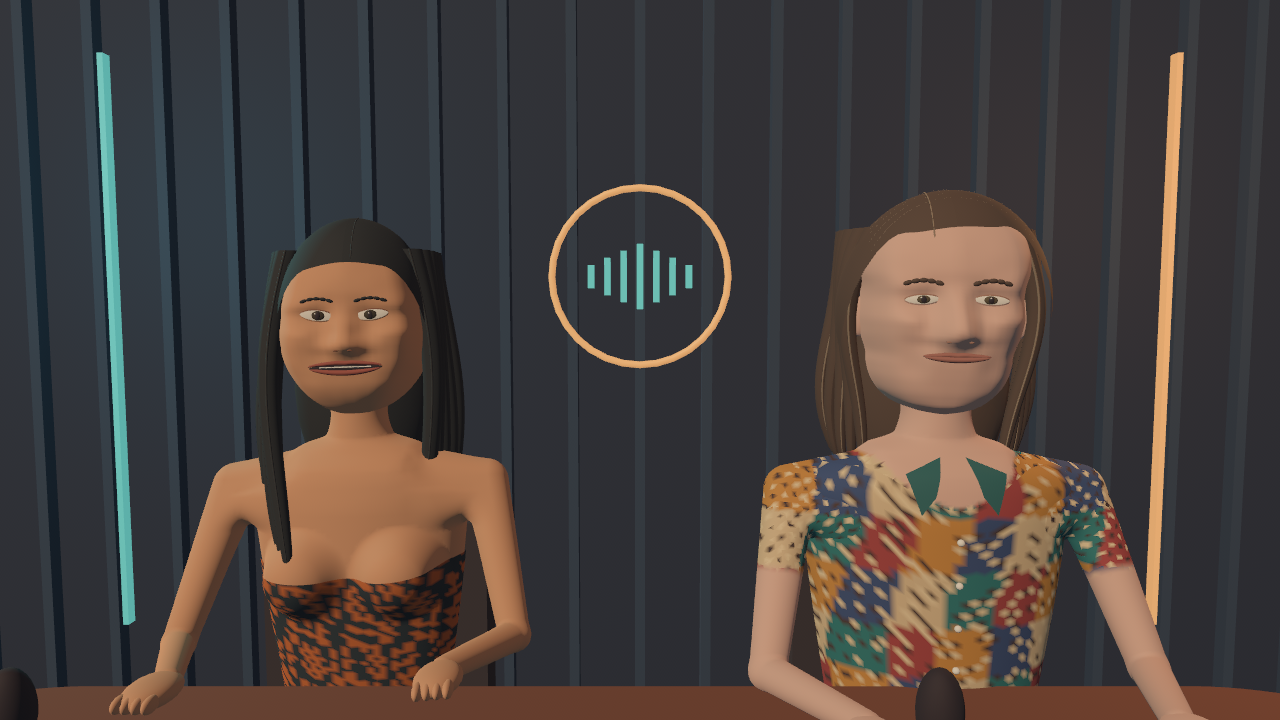
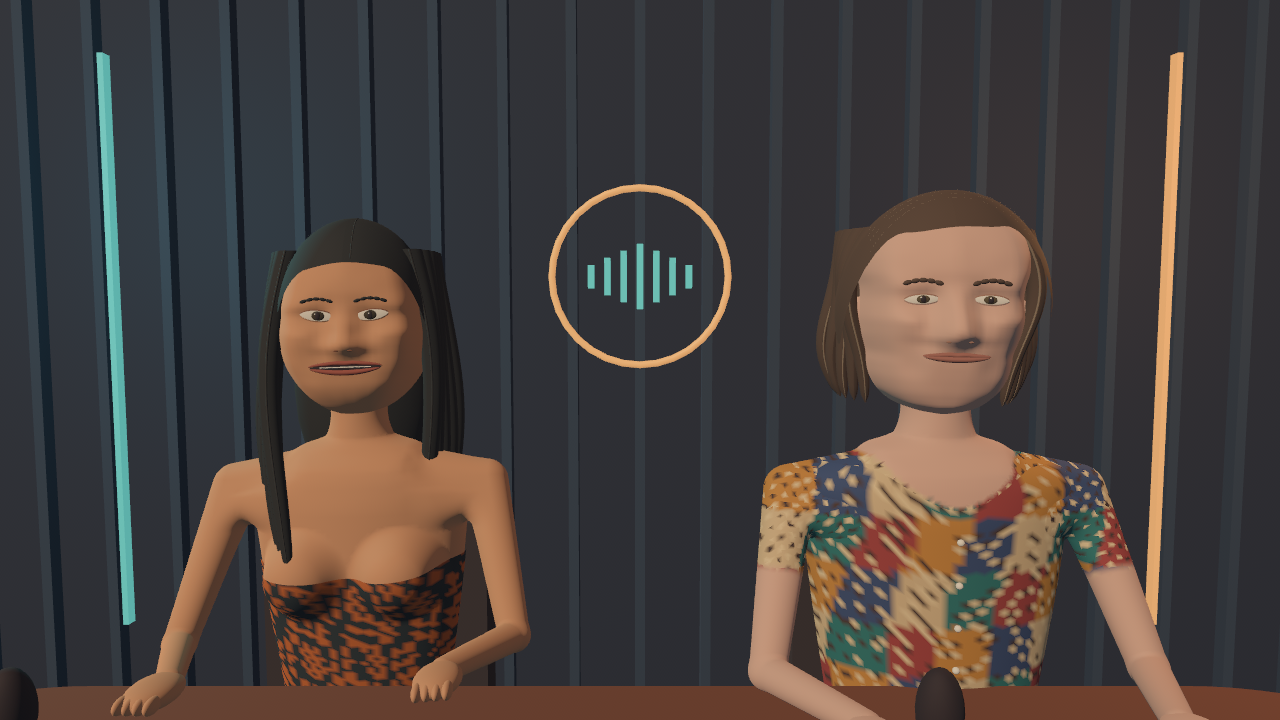
Remove neckline accents and drawn part; trim male hair to chin length

diff --git a/src/studio/portrait.rs b/src/studio/portrait.rs
@@ -18,6 +18,9 @@ pub struct Portrait {
     pub hair_length: f32,
     pub hair_part: f32,
     pub hair_width: f32,
+    pub draw_hair_part: bool,
+    pub hair_back_center: f32,
+    pub hair_back_half_height: f32,
 }
 
 impl Portrait {
@@ -34,6 +37,9 @@ impl Portrait {
                 hair_length: 0.83,
                 hair_part: 0.022,
                 hair_width: 0.205,
+                draw_hair_part: true,
+                hair_back_center: 0.08,
+                hair_back_half_height: 0.34,
             }
         } else {
             Self {
@@ -44,9 +50,12 @@ impl Portrait {
                 nose_width: 0.039,
                 mouth_width: 0.068,
                 mouth_y: 0.158,
-                hair_length: 0.60,
+                hair_length: 0.43,
                 hair_part: -0.052,
                 hair_width: 0.238,
+                draw_hair_part: false,
+                hair_back_center: 0.255,
+                hair_back_half_height: 0.230,
             }
         }
     }
@@ -442,40 +451,6 @@ pub fn garment(index: usize) -> Mesh {
     indexed_surface(positions, indices).with_inserted_attribute(Mesh::ATTRIBUTE_COLOR, colors)
 }
 
-pub fn collar(side: f32) -> Mesh {
-    let corners = [
-        Vec2::new(side * 0.028, 0.635),
-        Vec2::new(side * 0.112, 0.600),
-        Vec2::new(side * 0.084, 0.510),
-        Vec2::new(side * 0.052, 0.551),
-    ];
-    let segments = 8;
-    let mut positions = Vec::new();
-    let mut indices = Vec::new();
-    for row in 0..=segments {
-        let progress = row as f32 / segments as f32;
-        let inner = corners[0].lerp(corners[3], progress);
-        let outer = corners[1].lerp(corners[2], progress);
-        for column in 0..=segments {
-            let point = inner.lerp(outer, column as f32 / segments as f32);
-            positions.push([
-                point.x,
-                point.y,
-                super::body::front(1, point.x, point.y) + 0.010,
-            ]);
-            if row < segments && column < segments {
-                connect_ring(&mut indices, row, column, segments);
-            }
-        }
-    }
-    if side > 0.0 {
-        for triangle in indices.as_chunks_mut::<3>().0 {
-            triangle.swap(1, 2);
-        }
-    }
-    indexed_surface(positions, indices)
-}
-
 pub fn smile(index: usize) -> Mesh {
     let mut mesh = Sphere::new(1.0).mesh().uv(32, 16);
     if let Some(bevy::mesh::VertexAttributeValues::Float32x3(positions)) =
@@ -504,24 +479,26 @@ mod tests {
     use super::*;
 
     #[test]
-    fn shirt_collar_faces_follow_the_torso_without_skin_poking_through() {
+    fn microphone_hair_ends_near_the_chin_without_a_drawn_part() {
+        let male = Portrait::for_host(1);
+        assert!(!male.draw_hair_part);
+        assert!(Portrait::for_host(0).draw_hair_part);
+        assert!((male.hair_back_center - male.hair_back_half_height - 0.025).abs() < 0.00001);
         for side in [-1.0, 1.0] {
-            let mesh = collar(side);
-            let Some(VertexAttributeValues::Float32x3(positions)) =
-                mesh.attribute(Mesh::ATTRIBUTE_POSITION)
-            else {
-                panic!("missing collar positions")
-            };
-            let Some(Indices::U32(indices)) = mesh.indices() else {
-                panic!("missing collar triangles")
-            };
-            for triangle in indices.as_chunks::<3>().0 {
-                let center = triangle
-                    .iter()
-                    .map(|&index| Vec3::from_array(positions[index as usize]))
-                    .sum::<Vec3>()
-                    / 3.0;
-                assert!(center.z > super::super::body::front(1, center.x, center.y) + 0.005);
+            for lock in 0..5 {
+                for highlight in [false, true] {
+                    let mesh = hair_lock(1, side, lock, highlight);
+                    let Some(VertexAttributeValues::Float32x3(positions)) =
+                        mesh.attribute(Mesh::ATTRIBUTE_POSITION)
+                    else {
+                        panic!("missing hair positions")
+                    };
+                    let bottom = positions
+                        .iter()
+                        .map(|point| point[1])
+                        .fold(f32::INFINITY, f32::min);
+                    assert!((bottom - 0.025).abs() < 0.00001);
+                }
             }
         }
     }
@@ -573,8 +550,6 @@ mod tests {
                 hair_lock(index, -1.0, 0, false),
                 hair_lock(index, 1.0, 4, true),
                 garment(index),
-                collar(-1.0),
-                collar(1.0),
             ];
             for mesh in meshes {
                 let Some(VertexAttributeValues::Float32x3(positions)) =
@@ -633,15 +608,6 @@ mod tests {
                 }
                 assert!(checked > 5);
             }
-        }
-        for side in [-1.0, 1.0] {
-            let mesh = collar(side);
-            let Some(VertexAttributeValues::Float32x3(normals)) =
-                mesh.attribute(Mesh::ATTRIBUTE_NORMAL)
-            else {
-                panic!("missing normals");
-            };
-            assert!(normals.iter().all(|normal| normal[2] > 0.0));
         }
     }
 

diff --git a/src/studio.rs b/src/studio.rs
@@ -200,7 +200,6 @@ struct Palette {
     body: Handle<StandardMaterial>,
     hair: Handle<StandardMaterial>,
     streak: Handle<StandardMaterial>,
-    shirt: Handle<StandardMaterial>,
     lips: Handle<StandardMaterial>,
     crease: Handle<StandardMaterial>,
     white: Handle<StandardMaterial>,
@@ -319,16 +318,6 @@ fn host(
         Transform::default(),
     );
     if index == 1 {
-        for side in [-1.0, 1.0] {
-            let collar = meshes.add(portrait::collar(side));
-            object(
-                commands,
-                Some(root),
-                &collar,
-                &palette.shirt,
-                Transform::default(),
-            );
-        }
         for button in 0..4 {
             let height = 0.15 + button as f32 * 0.1;
             ellipsoid(
@@ -500,7 +489,7 @@ fn host(
     );
     animated(commands, teeth, index, PartKind::Teeth, teeth_rest);
 
-    for segment in 0..8 {
+    for segment in 0..if portrait.draw_hair_part { 8 } else { 0 } {
         let start_polar = 0.12 + segment as f32 * 0.105;
         let end_polar = start_polar + 0.105;
         let radial = (1.0 - (portrait.hair_part / portrait.hair_width).powi(2)).sqrt();
@@ -547,8 +536,8 @@ fn host(
         geometry,
         head,
         &palette.hair,
-        Vec3::new(0.0, if index == 0 { 0.08 } else { 0.07 }, -0.10),
-        Vec3::new(0.19, if index == 0 { 0.34 } else { 0.30 }, 0.10),
+        Vec3::new(0.0, portrait.hair_back_center, -0.10),
+        Vec3::new(0.19, portrait.hair_back_half_height, 0.10),
     );
     for side in [-1.0, 1.0] {
         for lock in 0..5 {
@@ -729,7 +718,6 @@ pub fn setup(
                 body: body_material.clone(),
                 hair: matte(&mut materials, Color::srgb_u8(18, 22, 23)),
                 streak: matte(&mut materials, Color::srgb_u8(30, 31, 30)),
-                shirt: matte(&mut materials, Color::srgb_u8(41, 55, 63)),
                 lips: matte(&mut materials, Color::srgb_u8(143, 72, 59)),
                 crease: matte(&mut materials, Color::srgb_u8(113, 70, 48)),
                 iris: matte(&mut materials, Color::srgb_u8(50, 42, 25)),
@@ -742,7 +730,6 @@ pub fn setup(
                 body: body_material.clone(),
                 hair: matte(&mut materials, Color::srgb_u8(70, 53, 41)),
                 streak: matte(&mut materials, Color::srgb_u8(123, 106, 86)),
-                shirt: matte(&mut materials, Color::srgb_u8(31, 85, 83)),
                 lips: matte(&mut materials, Color::srgb_u8(147, 94, 81)),
                 crease: matte(&mut materials, Color::srgb_u8(143, 106, 89)),
                 iris: matte(&mut materials, Color::srgb_u8(77, 66, 44)),

diff --git a/README.md b/README.md
@@ -12,10 +12,11 @@ OBS records the app window and the two audio channels.
   portraits, with smoothly sculpted cheeks/jaws, recessed almond-shaped eyes
   with blinking eyelids, individual brows and nose profiles, and smiles:
   long, parted black hair and a strapless orange/navy patterned top for host 1;
-  swept-back, shoulder-length wavy brown hair with lighter strands, a broader
+  swept-back, chin-length wavy brown hair with lighter strands but no drawn part, a broader
   forehead and firmer jaw for host 2. He sits slightly taller with broader
   shoulders and stronger arms, wearing a short-sleeved patchwork shirt in
   teal, burgundy, ochre, navy and cream, with small printed ornaments.
+  The shirt has a clean open neckline without protruding collar pieces.
   Lower upper arms and forearms remain bare; both hosts keep the desk at navel height.
   Both hosts close their lips at rest. Speech independently controls mouth
   opening and lip shapes; teeth are hidden in pauses and kept subtle when speaking.
